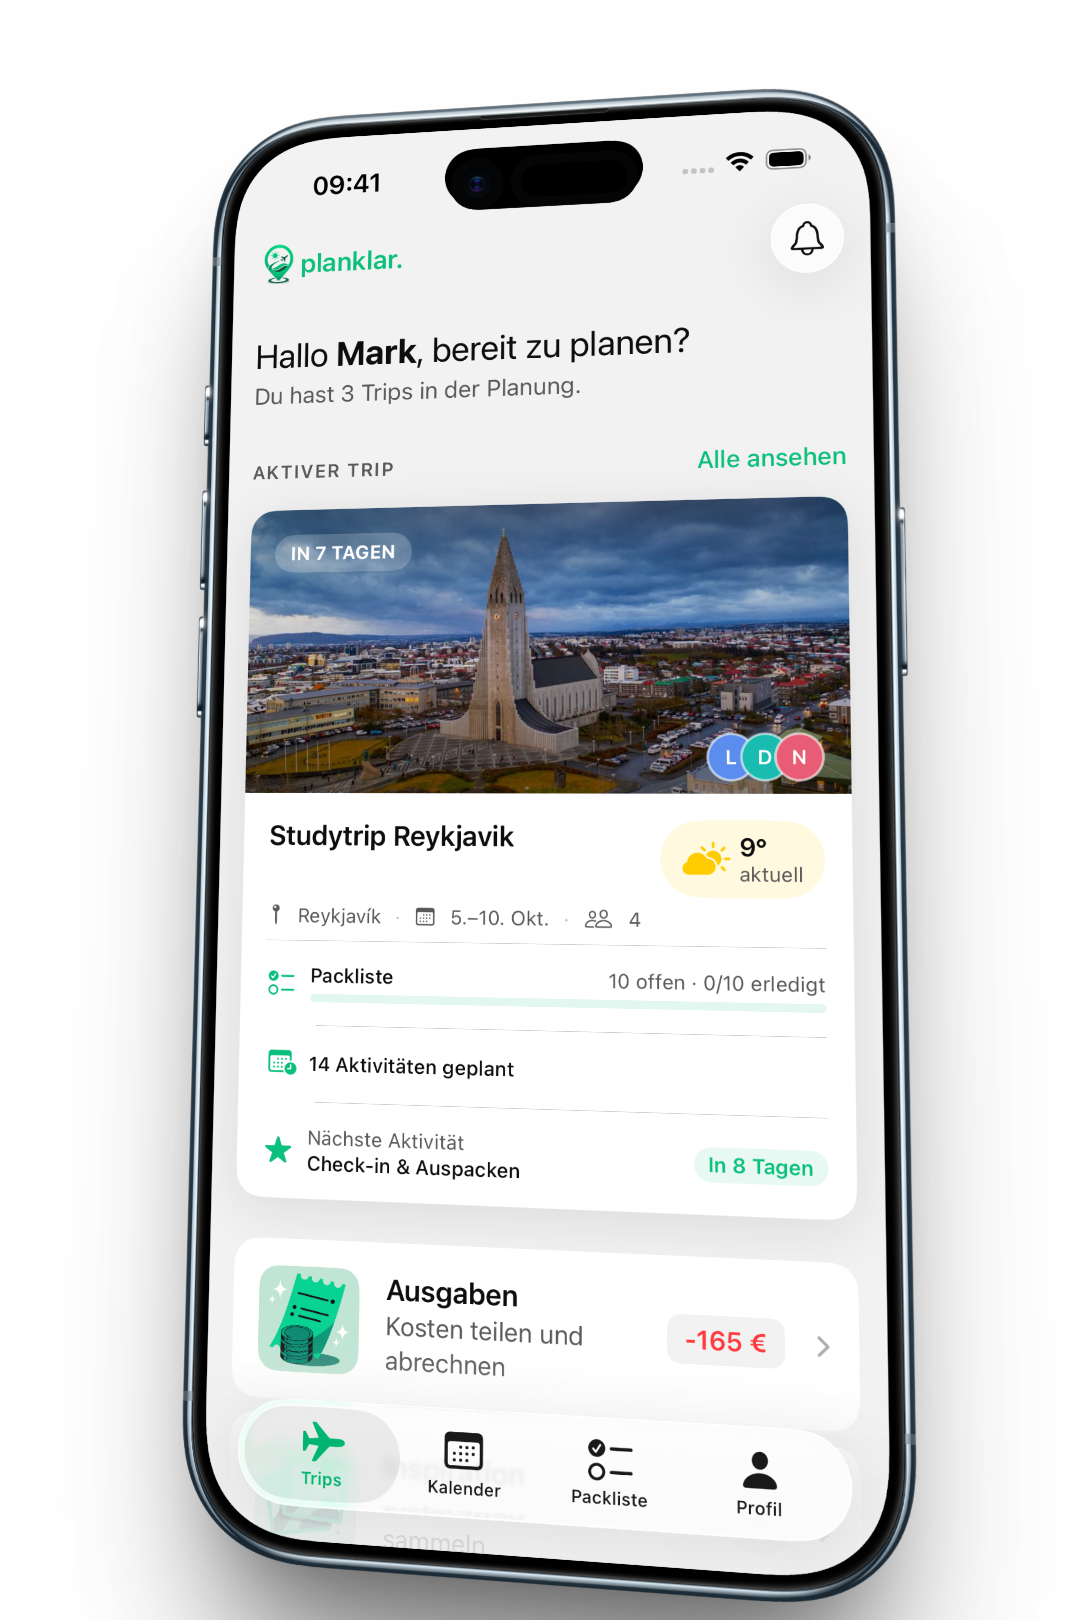
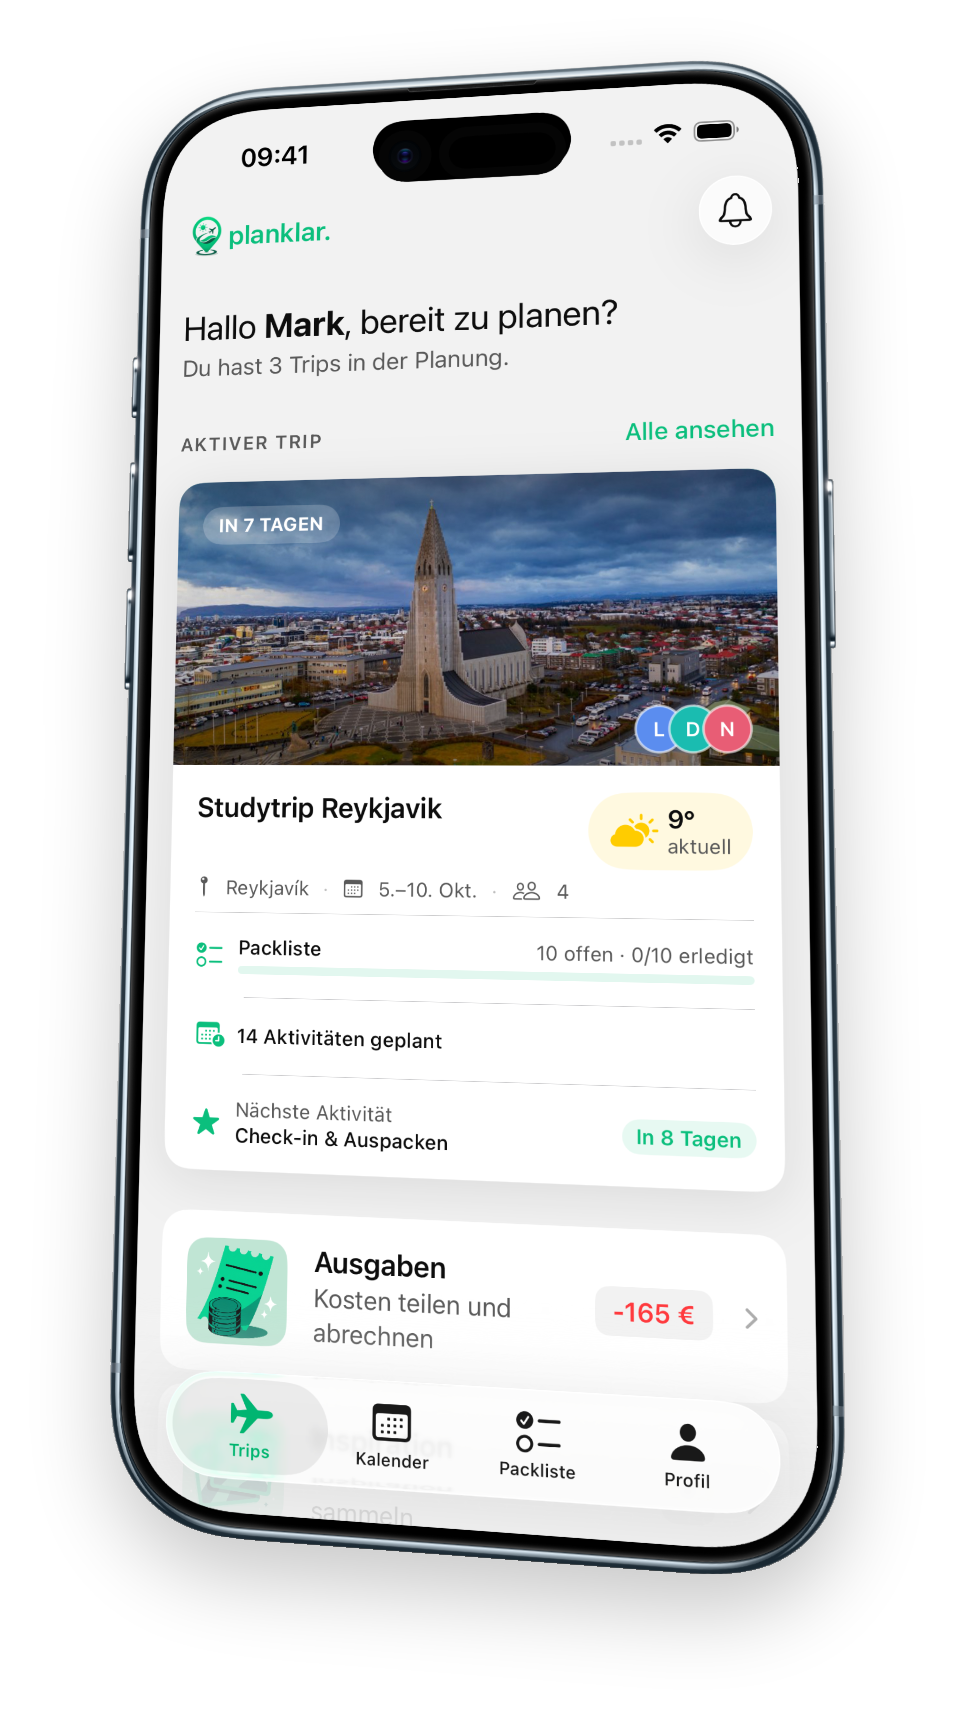
Hero: grünen Kasten entfernt, Handy-Schatten neu und weich auslaufend

diff --git a/style.css b/style.css
@@ -85,19 +85,11 @@ svg.i {
   .hero .wrap { grid-template-columns: 1fr; gap: 40px; }
 }
 
-/* The phone mockup sits on a flat green panel so its edges have room
-   and it doesn't read as cropped. */
-.hero-mockup {
-  display: flex; justify-content: center;
-  padding: 40px 24px;
-  background: var(--tint);
-  border-radius: 28px;
-}
-.hero-mockup img {
-  display: block; width: 100%; max-width: 340px; height: auto;
-  filter: drop-shadow(0 20px 36px rgba(0, 0, 0, 0.16));
-}
-@media (max-width: 820px) { .hero-mockup { padding: 28px 16px; } .hero-mockup img { max-width: 260px; } }
+/* The phone mockup stands freely on the page; its soft shadow is baked
+   into the image and fades out before the image edge. */
+.hero-mockup { display: flex; justify-content: center; }
+.hero-mockup img { display: block; width: 100%; max-width: 300px; height: auto; }
+@media (max-width: 820px) { .hero-mockup img { max-width: 230px; } }
 
 /* ---------- Sections ---------- */
 

diff --git a/index.html b/index.html
@@ -49,7 +49,7 @@
       <div class="hero-mockup">
         <picture>
           <source srcset="assets/hero-mockup.webp" type="image/webp">
-          <img src="assets/hero-mockup.png" width="1080" height="1620"
+          <img src="assets/hero-mockup.png" width="955" height="1724"
                alt="Die Startseite von tripklar. mit dem nächsten Trip, Wetter, Packliste und Ausgaben">
         </picture>
       </div>
